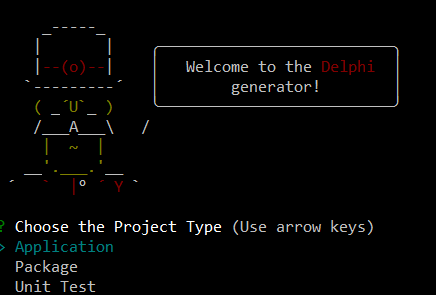
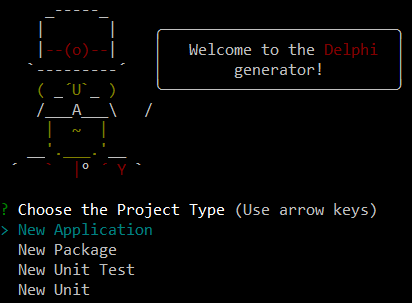
readme updated for New Unit templates

diff --git a/README.md b/README.md
@@ -32,17 +32,20 @@ The generator will create complete projects, ready to compile and run.
 These are the available projects:
 
 ```
-├── Aplication
+├── New Aplication
 │   ├── Console
 │   ├── VCL Forms
 │   └── FireMonkey
-├── Package
+├── New Package
 │   ├── Runtime
 │   ├── Designtime
 │   └── Runtime and Designtime
-└── Unit Test
-    ├── DUnit
-    └── DUnitX
+├── New Unit Test
+│   ├── DUnit
+│   └── DUnitX
+└── New Unit
+    ├── Interface
+    └── Class
 ```
 
 There are some specific options for each kind of project, which you will be able to choose/type while using the generator
